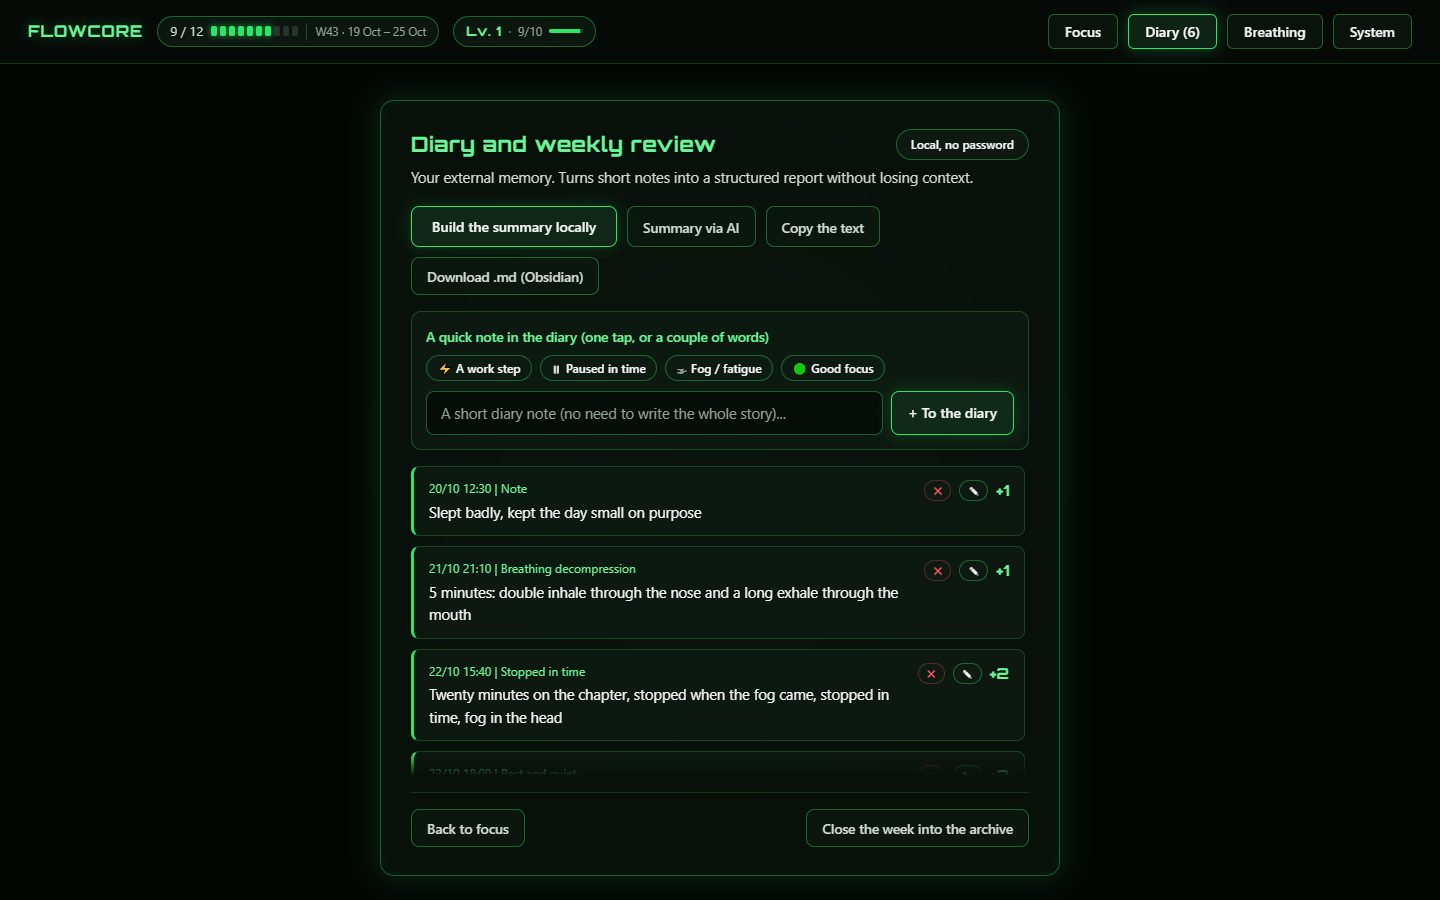
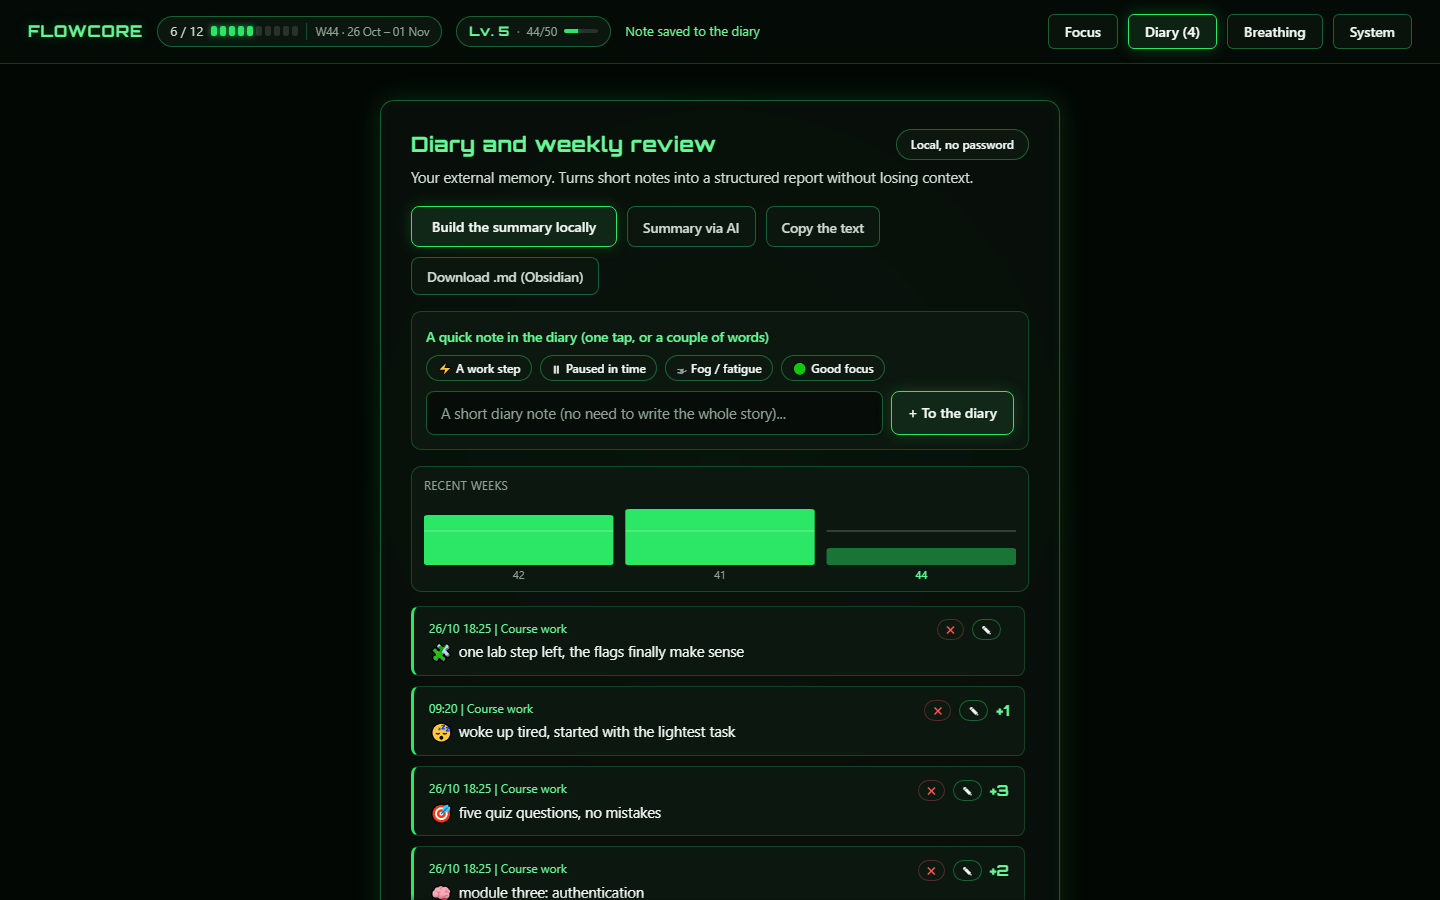
docs(flowcore): screenshots and text that match what the app now does
The focus shot no longer showed the card that actually ships: no pencil, no
collapsed option, no cap switch on the today line. Re-shot focus, diary and the
phone screen from a demo profile, and added the note with its emoji row and the
prism skin, so the page shows the two features a reader cannot guess from prose.

The feature list gained the note and the collapsible card, the skin line gained
prism, and the file size and check count now match the file instead of numbers
from three edits ago.

diff --git a/README.ru.md b/README.ru.md
@@ -8,7 +8,7 @@
 
 *English version: [README.md](README.md).*
 
-Выбери сферу, скажи, сколько сегодня сил, и сделай один пятиминутный шаг. Очки копятся на неделю, пропущенный день ничего не отнимает, а ранний стоп считается отдыхом, а не провалом. Всё приложение — один HTML-файл на 306 КБ: без сборки, сервера и зависимостей.
+Выбери сферу, скажи, сколько сегодня сил, и сделай один пятиминутный шаг. Очки копятся на неделю, пропущенный день ничего не отнимает, а ранний стоп считается отдыхом, а не провалом. Всё приложение — один HTML-файл на 329 КБ: без сборки, сервера и зависимостей.
 
 ## Что умеет
 
@@ -23,13 +23,17 @@
 
 **Первый шаг вместо «поработать».** К задаче прилагаются три конкретных физических действия («открыть редактор», «прочитать последний абзац»). Пять минут считаются работой, даже если дальше не пошло.
 
+**Заметка прямо у задачи.** Карандаш рядом с задачей открывает строку на месте, с восемью эмодзи, которые вставляются в текст. Заметка ложится в дневник под названием сферы и очков не даёт: это память, а не выполненный шаг.
+
+**Вторая карточка уходит с дороги.** «Своими словами» сворачивается в полосу и отдаёт ширину таймеру, выбор запоминается. По умолчанию она развёрнута: прятать способ записать — не моё решение.
+
 **Мост после остановки.** Если остановился вчера — сверху появляется «вчера остановился на: …» и кнопка «начать 5 минут с этого места». Возврат в работу не требует вспоминать, где ты был.
 
 **Неделя, а не день.** Очки копятся на неделю (по умолчанию 12, настраивается). Пропущенный день ничего не сбрасывает; неделя закрывается в архив сама. Видно тепловую карту за 12 недель и график последних недель.
 
 **Мягкий потолок дня: 8 очков.** После него записи идут дальше, но очки не растут — длина работы перестаёт быть единственной наградой. На хорошем дне потолок снимается одним кликом на строке «сегодня» до полуночи, а назавтра включается сам. Есть опция «очки только за отработанное время»: «Выполнено» даст очки, только если таймер честно отработал 5 минут.
 
-**Уровень за всё время.** 10 опыта = уровень; опыт считается из всех очков за всю историю и не сгорает с неделей. Уровень открывает скины: изумруд (1), янтарь (3), кибер (6), аврора (10) — каждый меняет палитру целиком, включая фоновую пульсацию.
+**Уровень за всё время.** 10 опыта = уровень; опыт считается из всех очков за всю историю и не сгорает с неделей. Уровень открывает скины: изумруд (1), янтарь (3), призма (5), кибер (6), аврора (10) — каждый меняет палитру целиком, включая фоновую пульсацию. У призмы панель нейтральная, а по верху каждой карточки идёт тонкая статичная полоса из всех четырёх палитр.
 
 **Отдых приносит очки.** За спокойный вчерашний день (≤6 очков) или за «вовремя остановился» начисляется заряд отдыха (до 3). Заряд добавляет +1 к следующему шагу внутри дневного лимита — быстрее закрыть норму и пойти отдыхать, а не сидеть дольше.
 
@@ -60,6 +64,10 @@
 | Первый запуск | Телефон |
 | --- | --- |
 | ![Первый запуск](screenshots/04-onboarding.png) | ![Телефон](screenshots/mobile/01-focus.png) |
+
+| Заметка у задачи | Скин «Призма» (5 уровень) |
+| --- | --- |
+| ![Заметка](screenshots/05-note.png) | ![Призма](screenshots/06-prism.png) |
 
 Интерфейс на снимках — английский: это язык по умолчанию, остальные три переключаются в «Системе». Все скриншоты сняты на демонстрационном профиле — это не чьи-то настоящие записи.
 
@@ -108,7 +116,7 @@ python serve.py --lan      # доступ в домашней сети по http
 node tests/run.js
 ```
 
-Сейчас **348 проверок**: недельный ролловер и архив, миграция старых бэкапов, замок, дневной потолок, уровень и скины, резерв, бонус отдыха, методики дыхания и фазы, шум с общим выключателем звука, экспорт в Markdown, редактор сфер, интервью первого запуска, словарь на четыре языка (все ключи из разметки и кода на месте, склонения через `Intl.PluralRules`). Тесты вырезают скрипт из настоящего `flowcore.html`, поэтому проверяют именно тот файл, который открывает браузер.
+Сейчас **403 проверки**: недельный ролловер и архив, миграция старых бэкапов, замок, дневной потолок и его снятие на день, уровень и скины, резерв, бонус отдыха, заметка к задаче и набор эмодзи, методики дыхания и фазы, шум с общим выключателем звука, экспорт в Markdown, редактор сфер, интервью первого запуска, словарь на четыре языка (все ключи из разметки и кода на месте, склонения через `Intl.PluralRules`). Тесты вырезают скрипт из настоящего `flowcore.html`, поэтому проверяют именно тот файл, который открывает браузер.
 
 Те же проверки запускаются на GitHub Actions при каждом push и pull request — файл `.github/workflows/tests.yml`. Сборки нет, поэтому шагов всего три: checkout, Node, `node tests/run.js`.
 
@@ -117,7 +125,7 @@ node tests/run.js
 - Интерфейс на четырёх языках — русский, украинский, английский, немецкий. Новый язык — это ещё одна колонка в словаре, но готового перевода на другие пока нет.
 - Данные живут в одном браузере: очистка профиля или «сайт-данных» их удалит. Раз в неделю стоит скачивать бэкап JSON.
 - Синхронизации между устройствами нет — это осознанно, чтобы не появлялось сервера и аккаунта.
-- Всё в одном файле: правки удобны, но файл уже большой — около 306 КБ, в gzip примерно 90 КБ.
+- Всё в одном файле: правки удобны, но файл уже большой — около 329 КБ, в gzip примерно 96 КБ.
 
 ## Лицензия
 

diff --git a/README.md b/README.md
@@ -8,7 +8,7 @@
 
 *Русская версия: [README.ru.md](README.ru.md).*
 
-Pick one of your areas, say how much energy you have today, and do a single five-minute step. Points collect over the week, a missed day takes nothing away, and an early stop counts as rest, not as failure. The whole app is one 306 KB HTML file: no build, no server, no dependencies.
+Pick one of your areas, say how much energy you have today, and do a single five-minute step. Points collect over the week, a missed day takes nothing away, and an early stop counts as rest, not as failure. The whole app is one 329 KB HTML file: no build, no server, no dependencies.
 
 ## What it does
 
@@ -23,13 +23,17 @@ If you are in a hurry:
 
 **A first step instead of "go work".** Each task comes with three concrete physical actions: open the editor, read the last paragraph, write down one question. Five minutes count as work even if you stop right there.
 
+**A note on the task itself.** The pencil next to the task opens a line right there, with eight emoji that insert into the text. The note lands in the diary under the area's name and gives no points: it is memory, not a finished step.
+
+**The second card steps aside.** "In your own words" collapses into a strip and hands its width to the timer, and the choice is remembered. It starts expanded, because hiding a way to log is not a decision to make for someone else.
+
 **A bridge after stopping.** If you stopped yesterday, a line at the top says where, with one button that starts five minutes from that exact place. Coming back does not require remembering where you were.
 
 **A week, not a day.** Points collect over the week (12 by default, adjustable). A missed day resets nothing, and the week closes into the archive on its own. The panel shows a heat map for the last 12 weeks and a chart of recent weeks.
 
 **A soft cap of 8 points a day.** Past it, notes keep going in and points stop growing, so the length of work stops being the only reward. On a day that is going well the cap can be lifted until midnight with one click on the today line; the next day it is back on its own. An optional strict mode gives points only for the time the timer actually ran.
 
-**A level for all time.** 10 experience points make a level, counted from every point you ever earned, so a new week does not burn it. Levels unlock skins: emerald (1), amber (3), cyber (6), aurora (10). Each one changes the whole palette, the background pulse included.
+**A level for all time.** 10 experience points make a level, counted from every point you ever earned, so a new week does not burn it. Levels unlock skins: emerald (1), amber (3), prism (5), cyber (6), aurora (10). Each one changes the whole palette, the background pulse included; prism keeps the panel neutral and gives each card a thin static line of all four palettes.
 
 **Rest earns points.** A calm yesterday (6 points or fewer) or an early stop charges the rest bonus, up to 3. A charge adds +1 to your next step inside the daily cap, which closes the day sooner instead of pushing you to sit longer.
 
@@ -60,6 +64,10 @@ If you are in a hurry:
 | First run | Phone |
 | --- | --- |
 | ![First run](screenshots/04-onboarding.png) | ![Phone](screenshots/mobile/01-focus.png) |
+
+| A note on the task | The prism skin (level 5) |
+| --- | --- |
+| ![Note](screenshots/05-note.png) | ![Prism](screenshots/06-prism.png) |
 
 The interface in the shots is English, which is the default, and the other three switch in System. Every screenshot comes from a demo profile, so none of it is anybody's real diary.
 
@@ -108,7 +116,7 @@ On Windows, `FlowCore.cmd` does the same from a double click.
 node tests/run.js
 ```
 
-There are **348 checks**: week rollover and the archive, migration of older backups, the lock, the daily cap, level and skins, the reserve, the rest bonus, breathing techniques and their phases, noise under the master sound switch, Markdown export, the area editor, the first-run interview, and the dictionary in four languages (every key from the markup and the code exists, plurals go through `Intl.PluralRules`). The tests cut the script out of the real `flowcore.html`, so they check the file the browser actually opens.
+There are **403 checks**: week rollover and the archive, migration of older backups, the lock, the daily cap and lifting it for a day, level and skins, the reserve, the rest bonus, the task note and its emoji set, breathing techniques and their phases, noise under the master sound switch, Markdown export, the area editor, the first-run interview, and the dictionary in four languages (every key from the markup and the code exists, plurals go through `Intl.PluralRules`). The tests cut the script out of the real `flowcore.html`, so they check the file the browser actually opens.
 
 The same checks run on GitHub Actions for every push and pull request, see `.github/workflows/tests.yml`. There is no build, so the job is three steps.
 
@@ -117,7 +125,7 @@ The same checks run on GitHub Actions for every push and pull request, see `.git
 - Four interface languages: Russian, Ukrainian, English, German. Another language is one more column in the dictionary, but no other translation exists yet.
 - Data lives in one browser. Clearing the profile or the site data removes it, so download a JSON backup every week or so.
 - There is no sync between devices, on purpose, so that no server and no account appear.
-- Everything is one file. Edits stay convenient, but the file is already large: about 306 KB, roughly 90 KB over the wire with gzip.
+- Everything is one file. Edits stay convenient, but the file is already large: about 329 KB, roughly 96 KB over the wire with gzip.
 
 ## License
 
